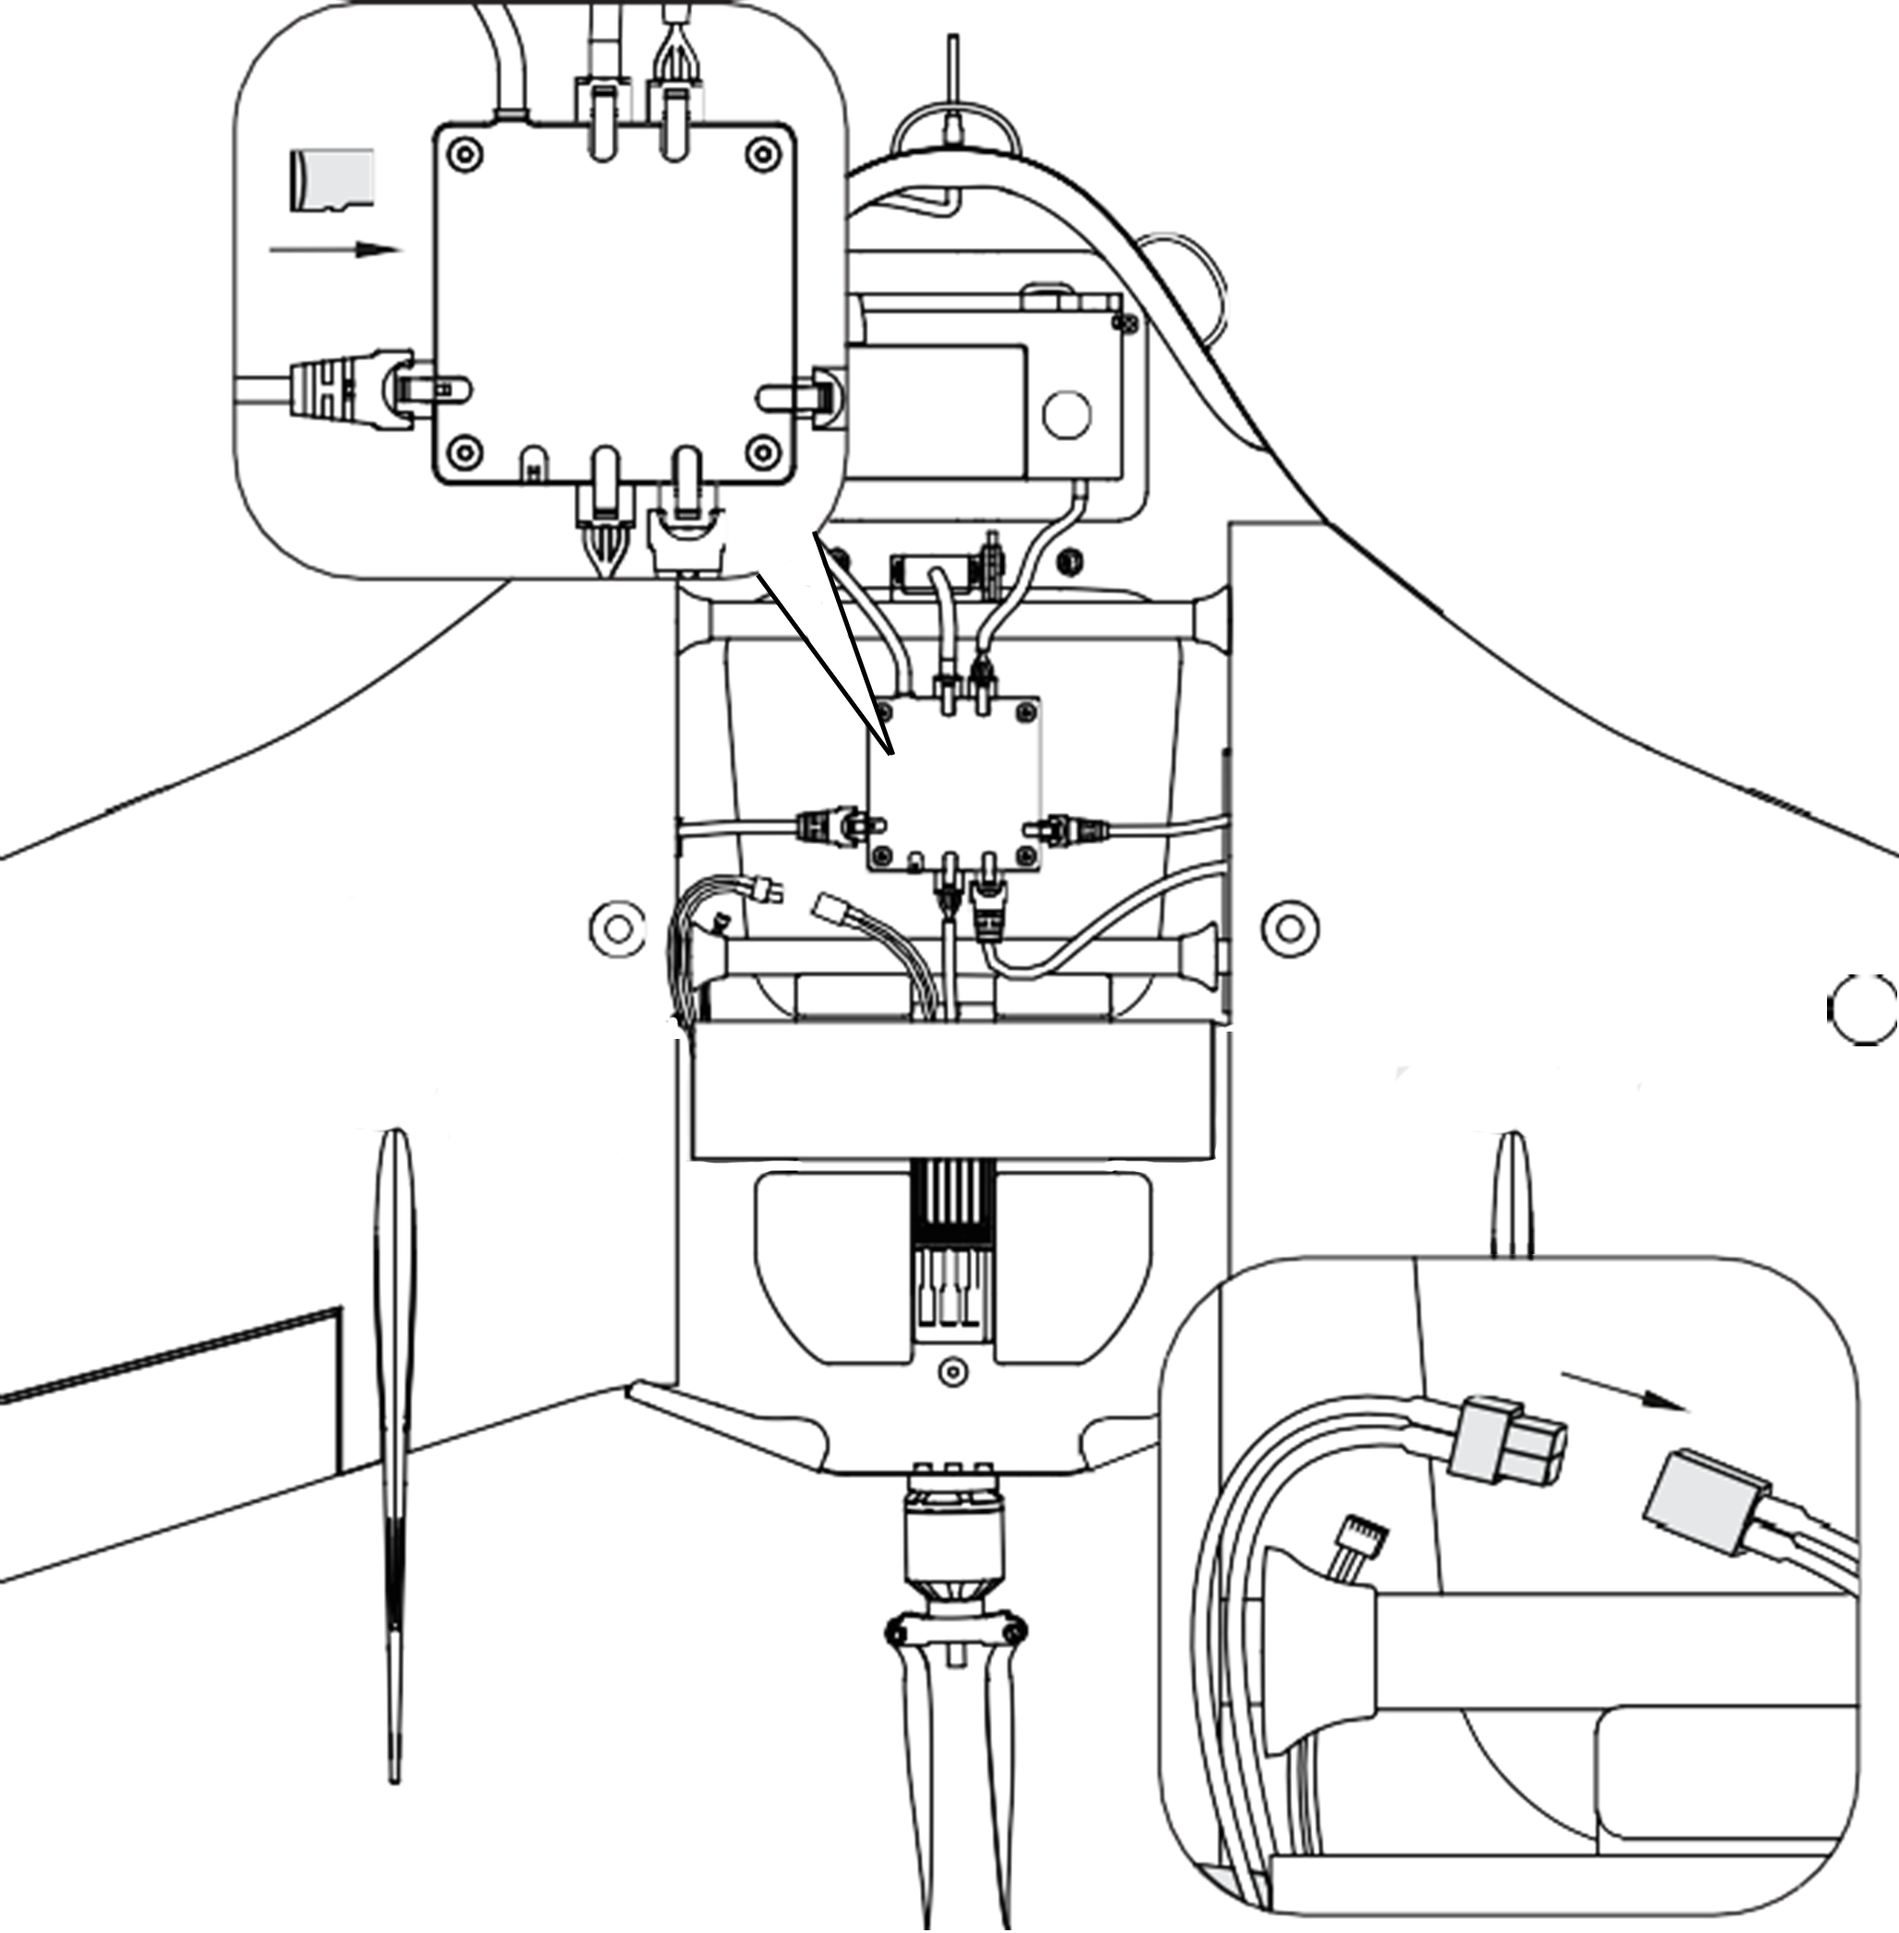
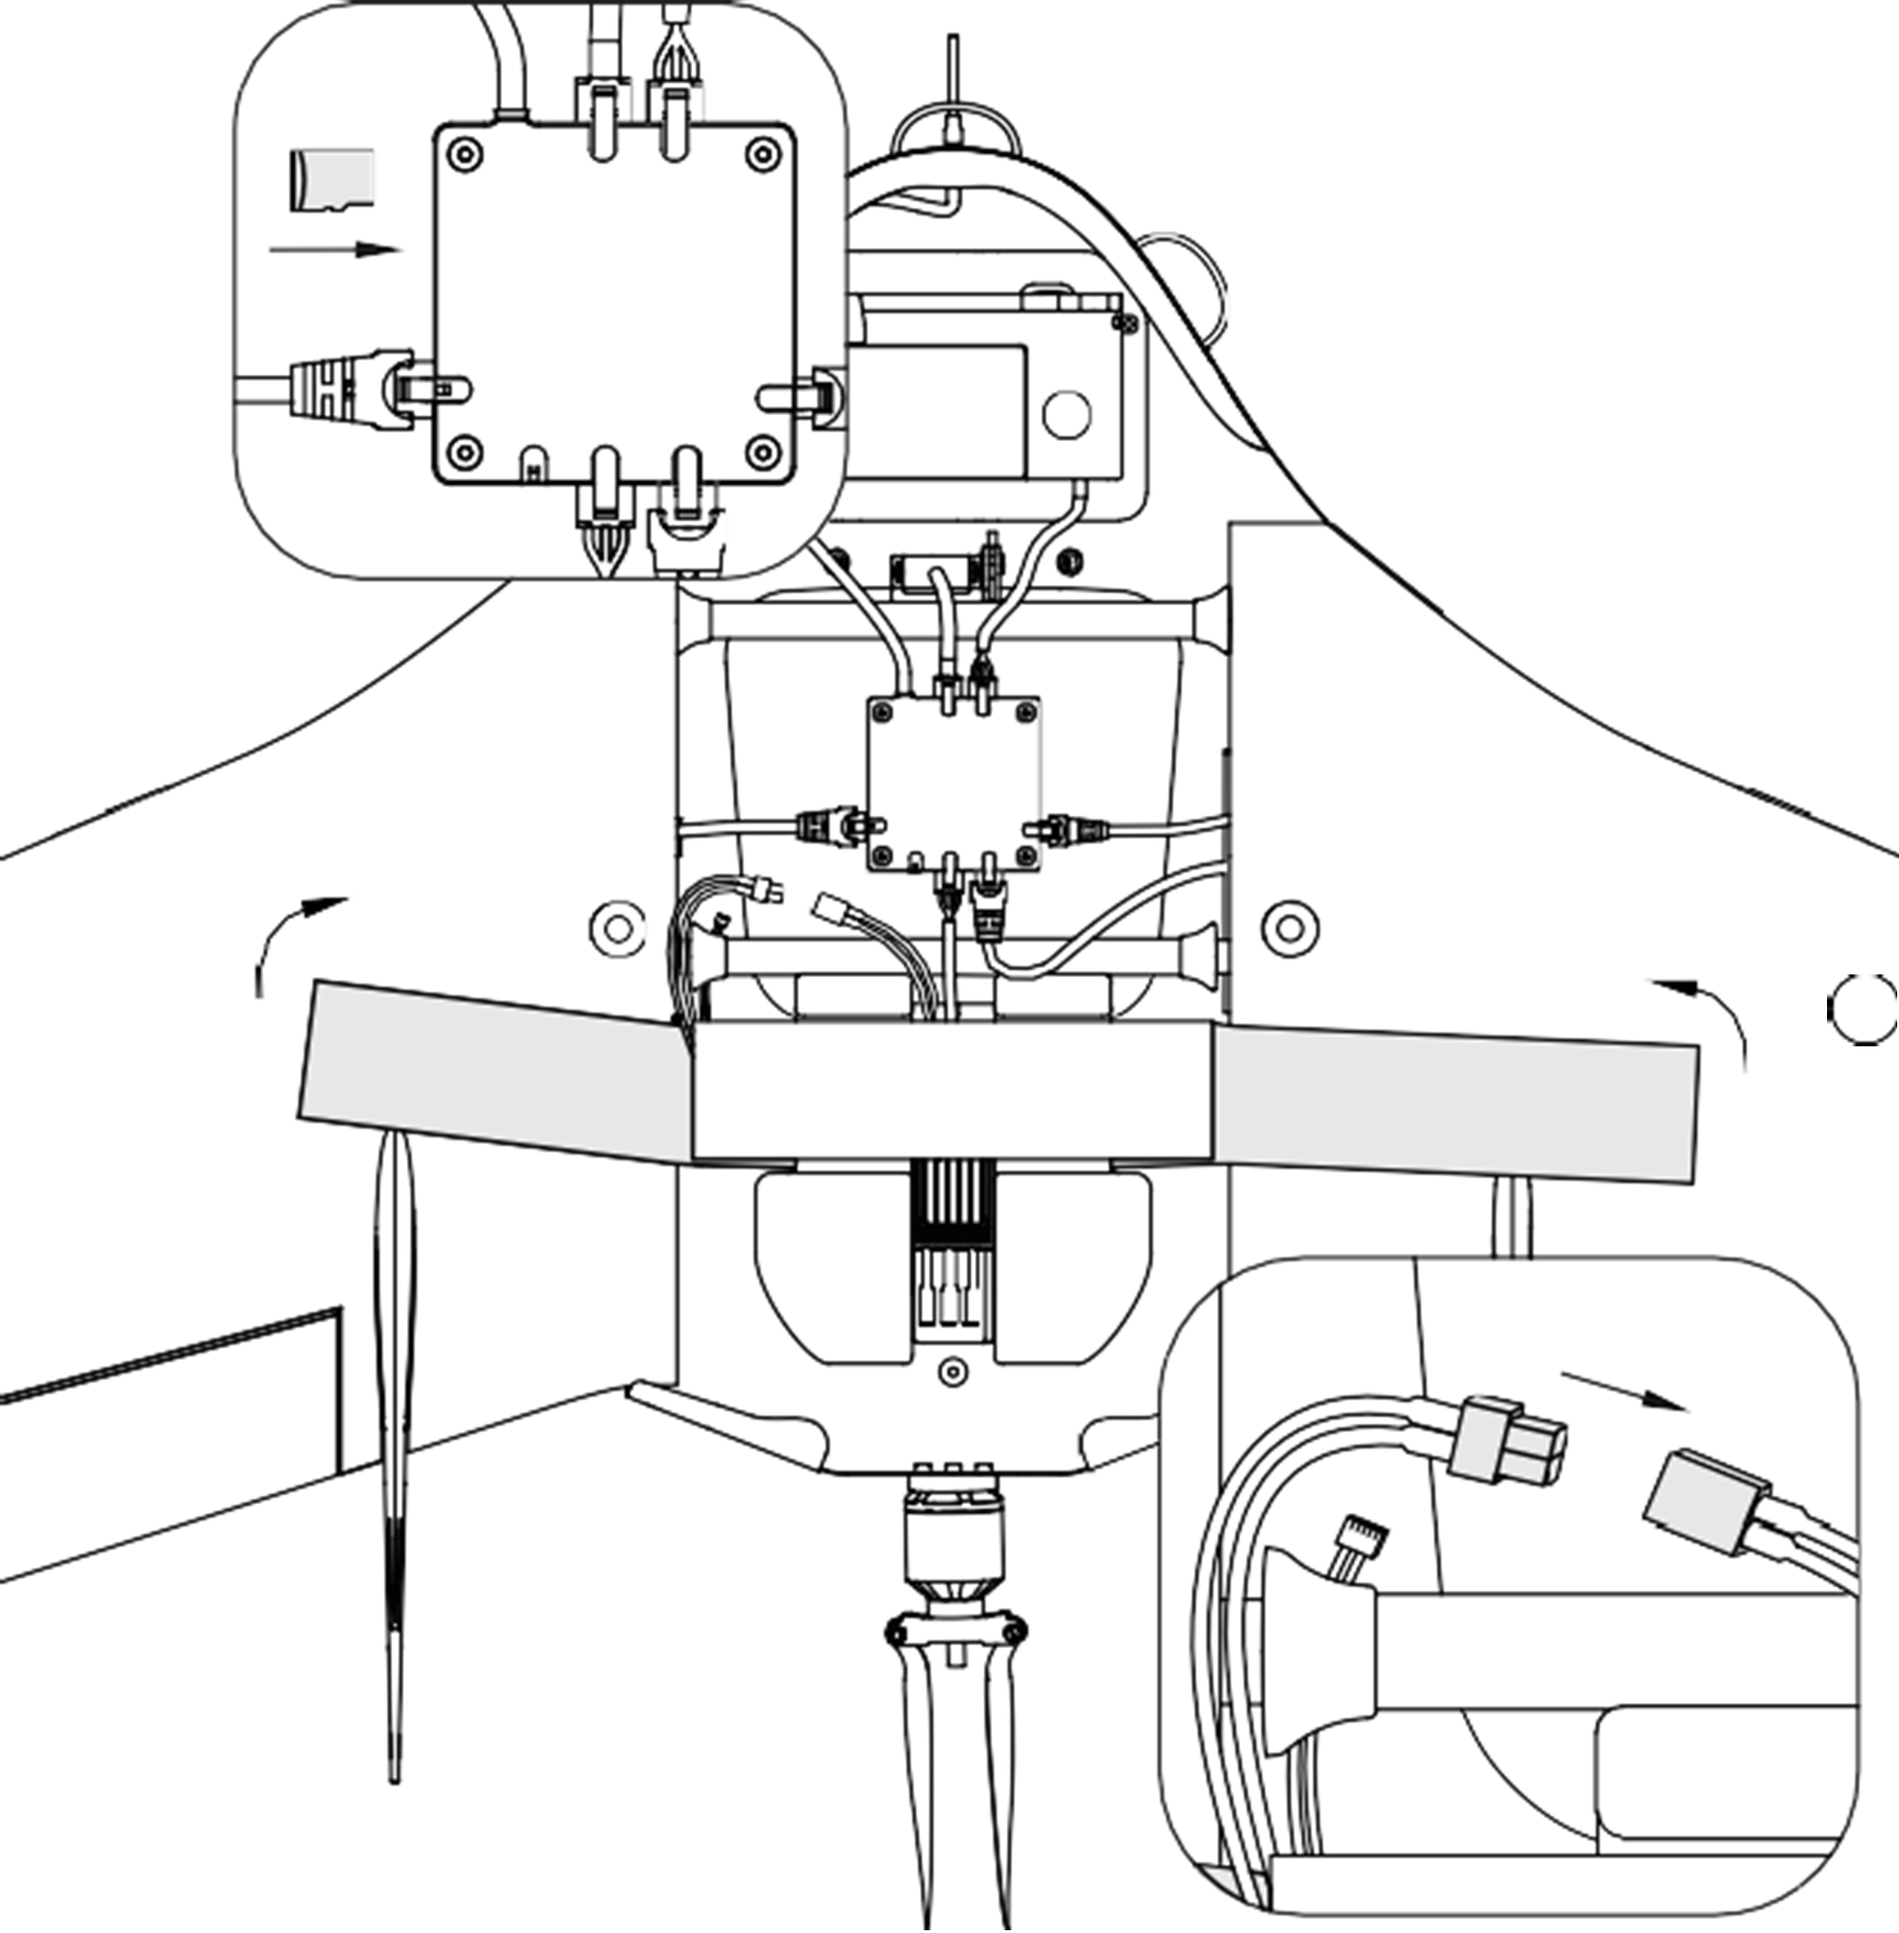
Фиксация

Changed region(s): [[0.5909, 0.4964, 0.9018, 0.6516], [0.1244, 0.4654, 0.4043, 0.6205], [0.4043, 0.2792, 0.4665, 0.3723]]

diff --git a/launch.rst b/launch.rst
@@ -10,7 +10,7 @@
 4) `Соберите пусковую установку`_. Непосредственно пред запуском установите резиновые жгуты и натяните их.
 5) `Соберите БВС`_. Установите парашют (порядок укладки см. в разделе `Парашютная система`_).
 6) Установите и подключите АКБ в БВС. 
-7) Подключите разъем фотоаппарата к БВС. Включите фотоаппарат. Отформатируйте карту памяти в фотоаппарате. Установите фотоаппарат в ложемент и закрепите эластичным фиксатором. Закройте крышку фюзеляжа БВС и застегните три фиксатора. Снимите крышку объектива фотоаппарата
+7) Подключите разъем фотоаппарата к БВС. Включите фотоаппарат. Отформатируйте карту памяти в фотоаппарате. Установите фотоаппарат в ложемент и закрепите фиксатором. Закройте крышку фюзеляжа БВС и застегните три фиксатора. Снимите крышку объектива фотоаппарата.
 8) Откройте полетное задание в Geoscan Planner. Запустите `мастер предстартовой подготовки`_. Убедитесь в успешном прохождении предстартовой подготовки.
 9) Натяните жгуты пусковой установки. Установите БВС на каретку.
 10) Нажмите на кнопку `Старт`_ в окне Geoscan Planner, чтобы перевести БВС в режим "Катапульта". Снимите предохранитель и потяните за спусковой шнур, чтобы запустить БВС.

diff --git a/uav.rst b/uav.rst
@@ -119,7 +119,7 @@
 
 
 8) Выньте карту памяти microSD из автопилота и отформатируйте ее, затем установите на место.
-9) Установите АКБ.
+9) Установите АКБ и закрепите с помощью текстильной застежки.
 10) Подключите разъем питания.
 
 .. figure:: _static/_images/asmbl6.png
